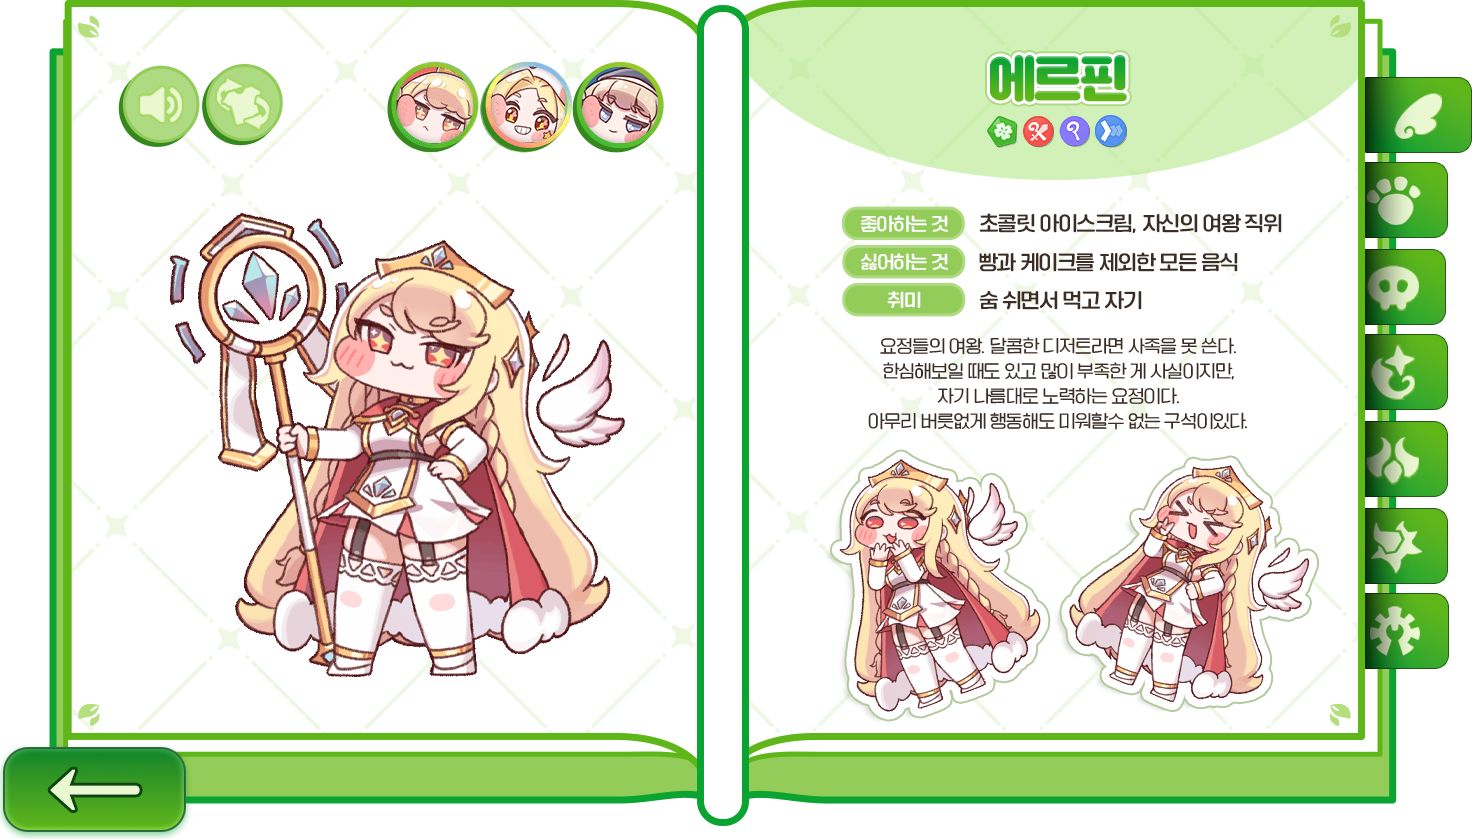
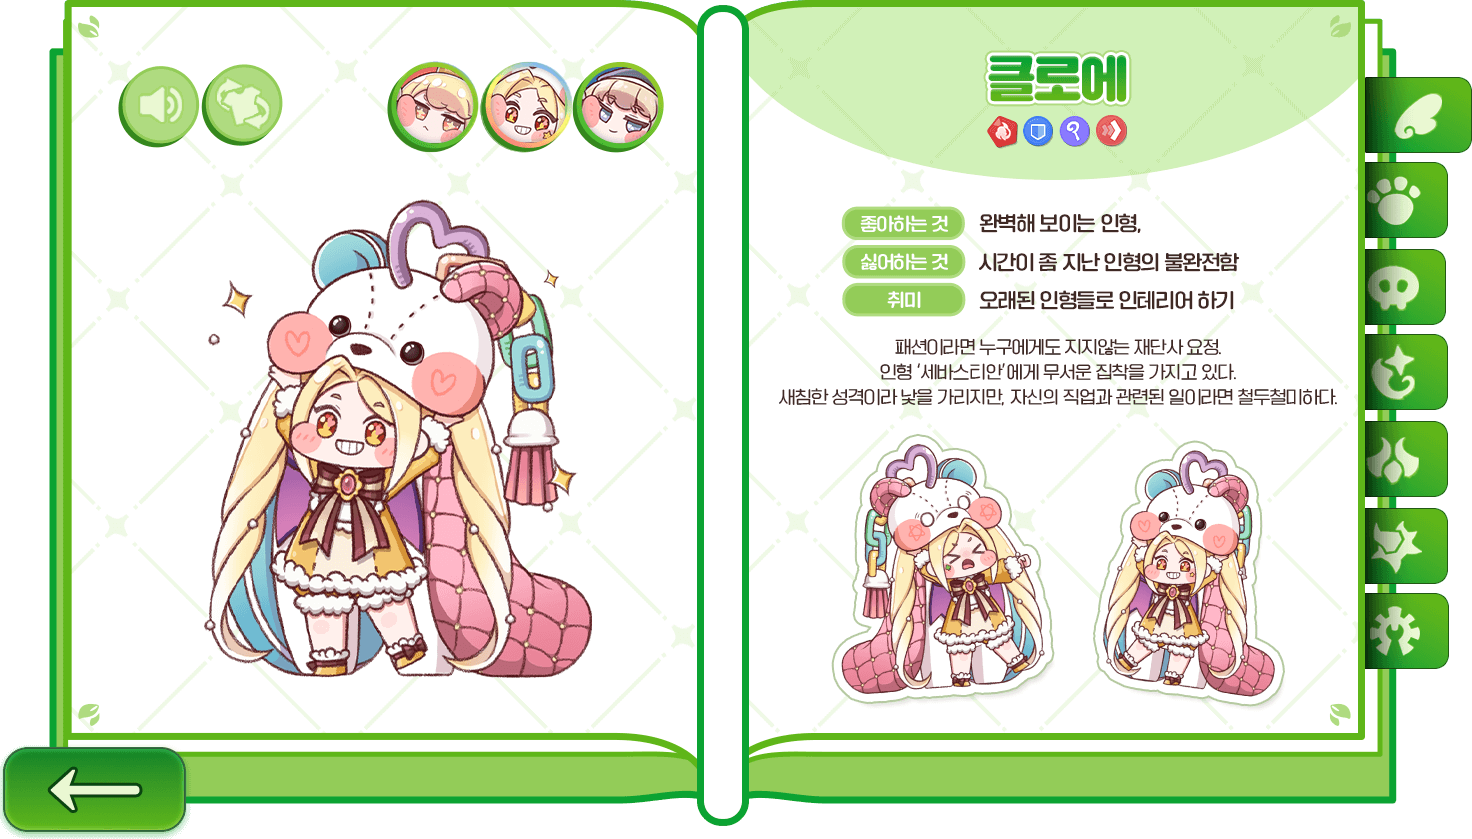
4page 작업 완성

diff --git a/src/4pages/page4.jsx b/src/4pages/page4.jsx
@@ -2,6 +2,22 @@ import { useState } from "react";
 import "./page4.css";
 export default function Page4() {
   const [isOpen, setIsOpen] = useState(false);
+  const [viewImg, setViewImg] = useState(1);
+  const [viewImgTab, setViewImgTab] = useState(1);
+
+  const showImg = `/img/4page/character-${viewImg
+    .toString()
+    .padStart(2, "0")}-${viewImgTab.toString().padStart(2, "0")}.png`;
+
+  const tabCount = {
+    1: 3,
+    2: 3,
+    3: 3,
+    4: 3,
+    5: 3,
+    6: 3,
+    7: 4,
+  };
 
   return (
     <div className="main-bg4">
@@ -12,6 +28,7 @@ export default function Page4() {
               key={i}
               onClick={() => {
                 setIsOpen(true);
+                setViewImg(i + 1);
               }}
             >
               <img
@@ -29,12 +46,22 @@ export default function Page4() {
         <div className="view">
           <ul>
             <li>
-              <img src="/img/4page/character-01-02.png"></img>
+              <img src={showImg}></img>
               <a className="sound"></a>
               <a className="change"></a>
-              <ol className="view-tab">
-                {Array.from({ length: 3 }).map((_, idx) => (
-                  <li key={idx} onClick={() => {}}></li>
+              <ol
+                className="view-tab"
+                style={{
+                  width: tabCount[viewImg] === 4 ? "25%" : "19%",
+                }}
+              >
+                {Array.from({ length: tabCount[viewImg] }).map((_, idx) => (
+                  <li
+                    key={idx}
+                    onClick={() => {
+                      setViewImgTab(idx + 1);
+                    }}
+                  ></li>
                 ))}
               </ol>
               <button
@@ -47,7 +74,12 @@ export default function Page4() {
           </ul>
           <ul className="view-mark">
             {Array.from({ length: 7 }).map((_, idx) => (
-              <li key={idx} onClick={() => {}}></li>
+              <li
+                key={idx}
+                onClick={() => {
+                  setViewImg(idx + 1);
+                }}
+              ></li>
             ))}
           </ul>
         </div>

diff --git a/src/4pages/page4.css b/src/4pages/page4.css
@@ -69,7 +69,7 @@ li {
   align-items: center;
   position: absolute;
   top: 7.5%;
-  left: 26.4%;
+  right: 54.7%;
   width: 19%;
   height: 10.5%;
 }
@@ -103,6 +103,7 @@ li {
   gap: 2%;
   display: flex;
   flex-direction: column;
+  cursor: pointer;
 }
 .view-mark li {
   width: 100%;
